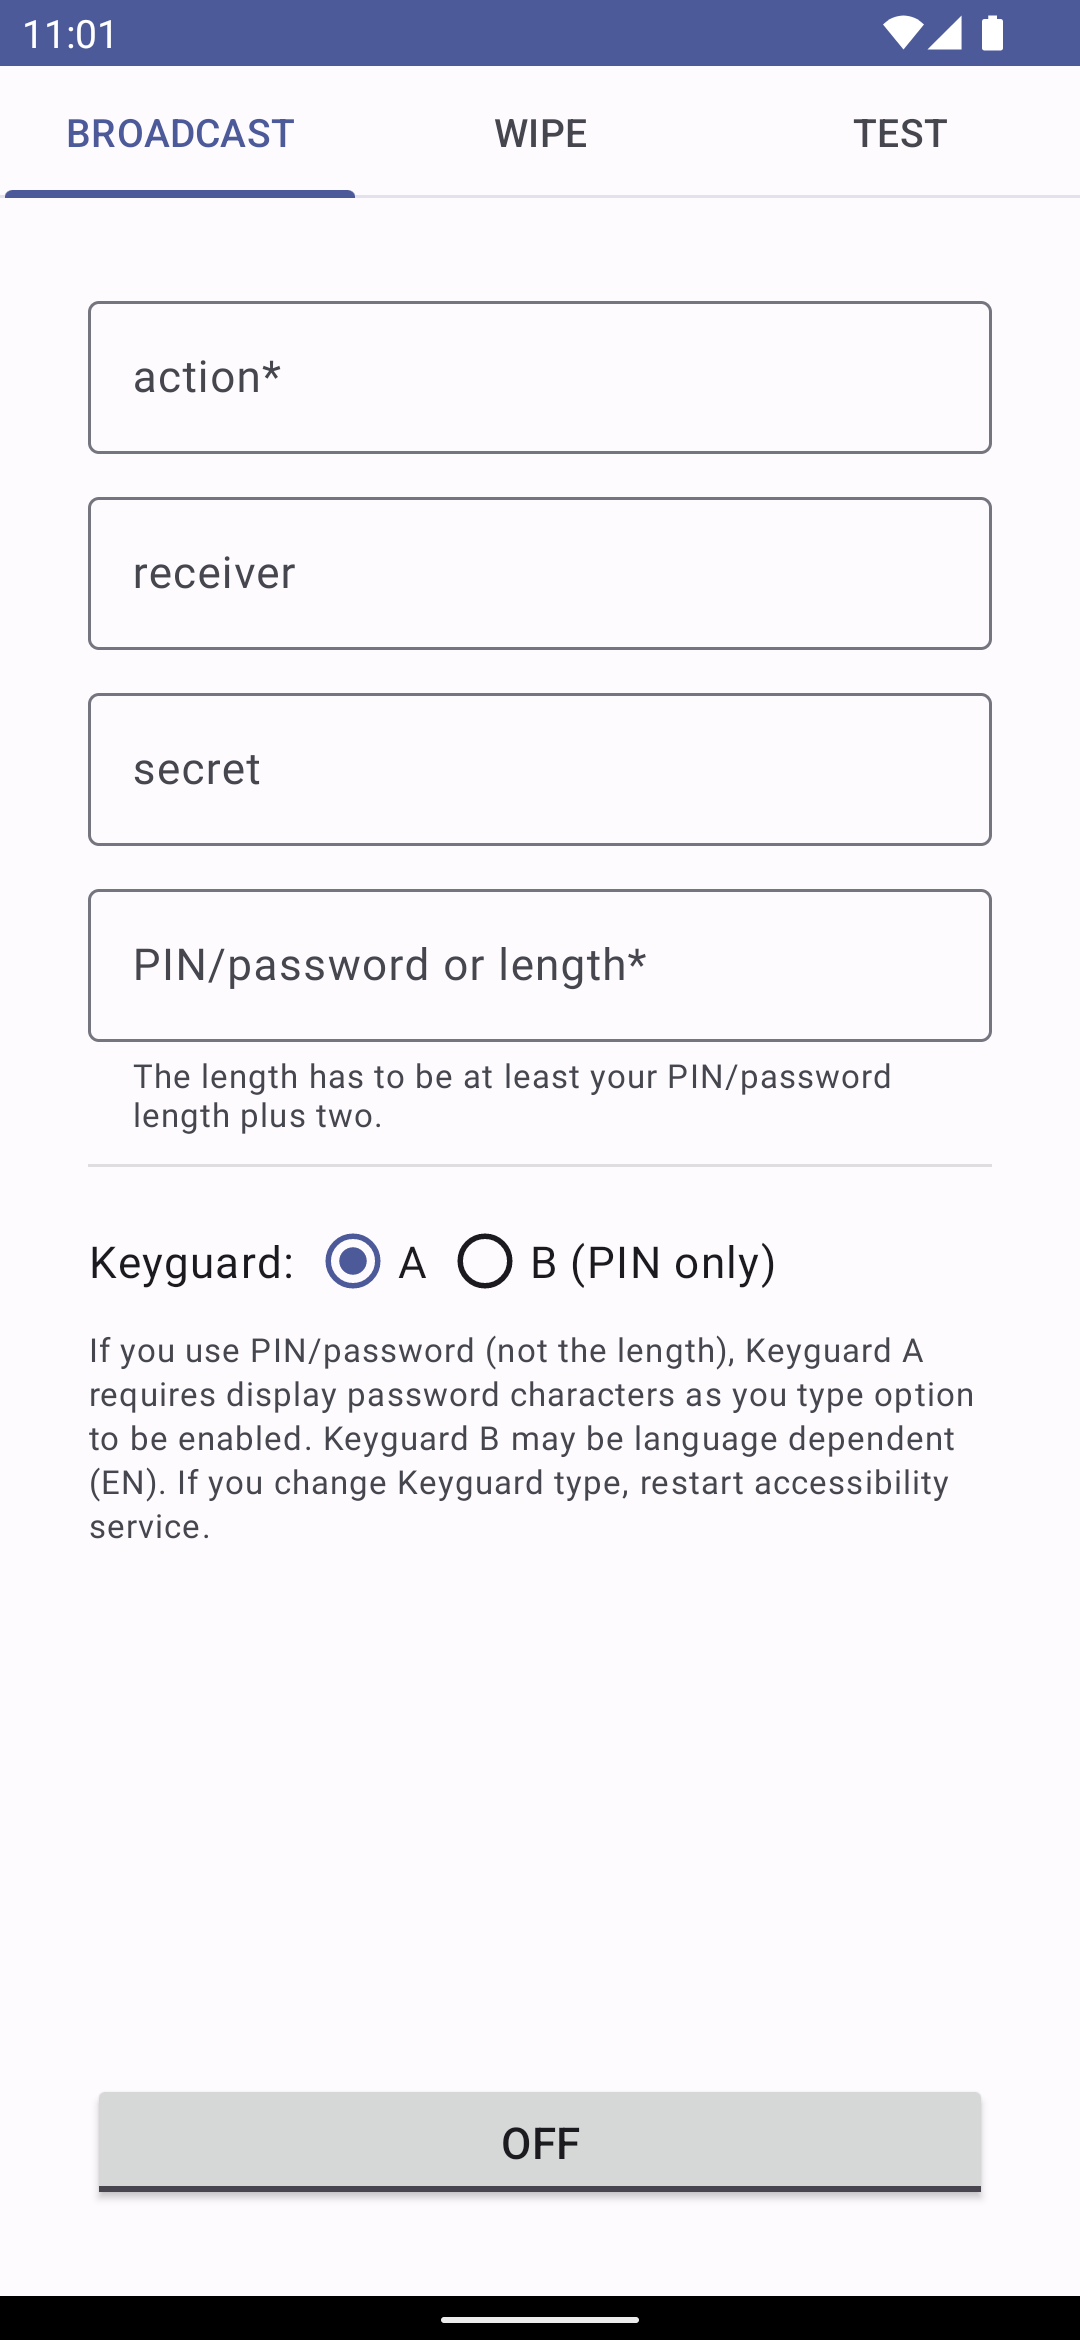
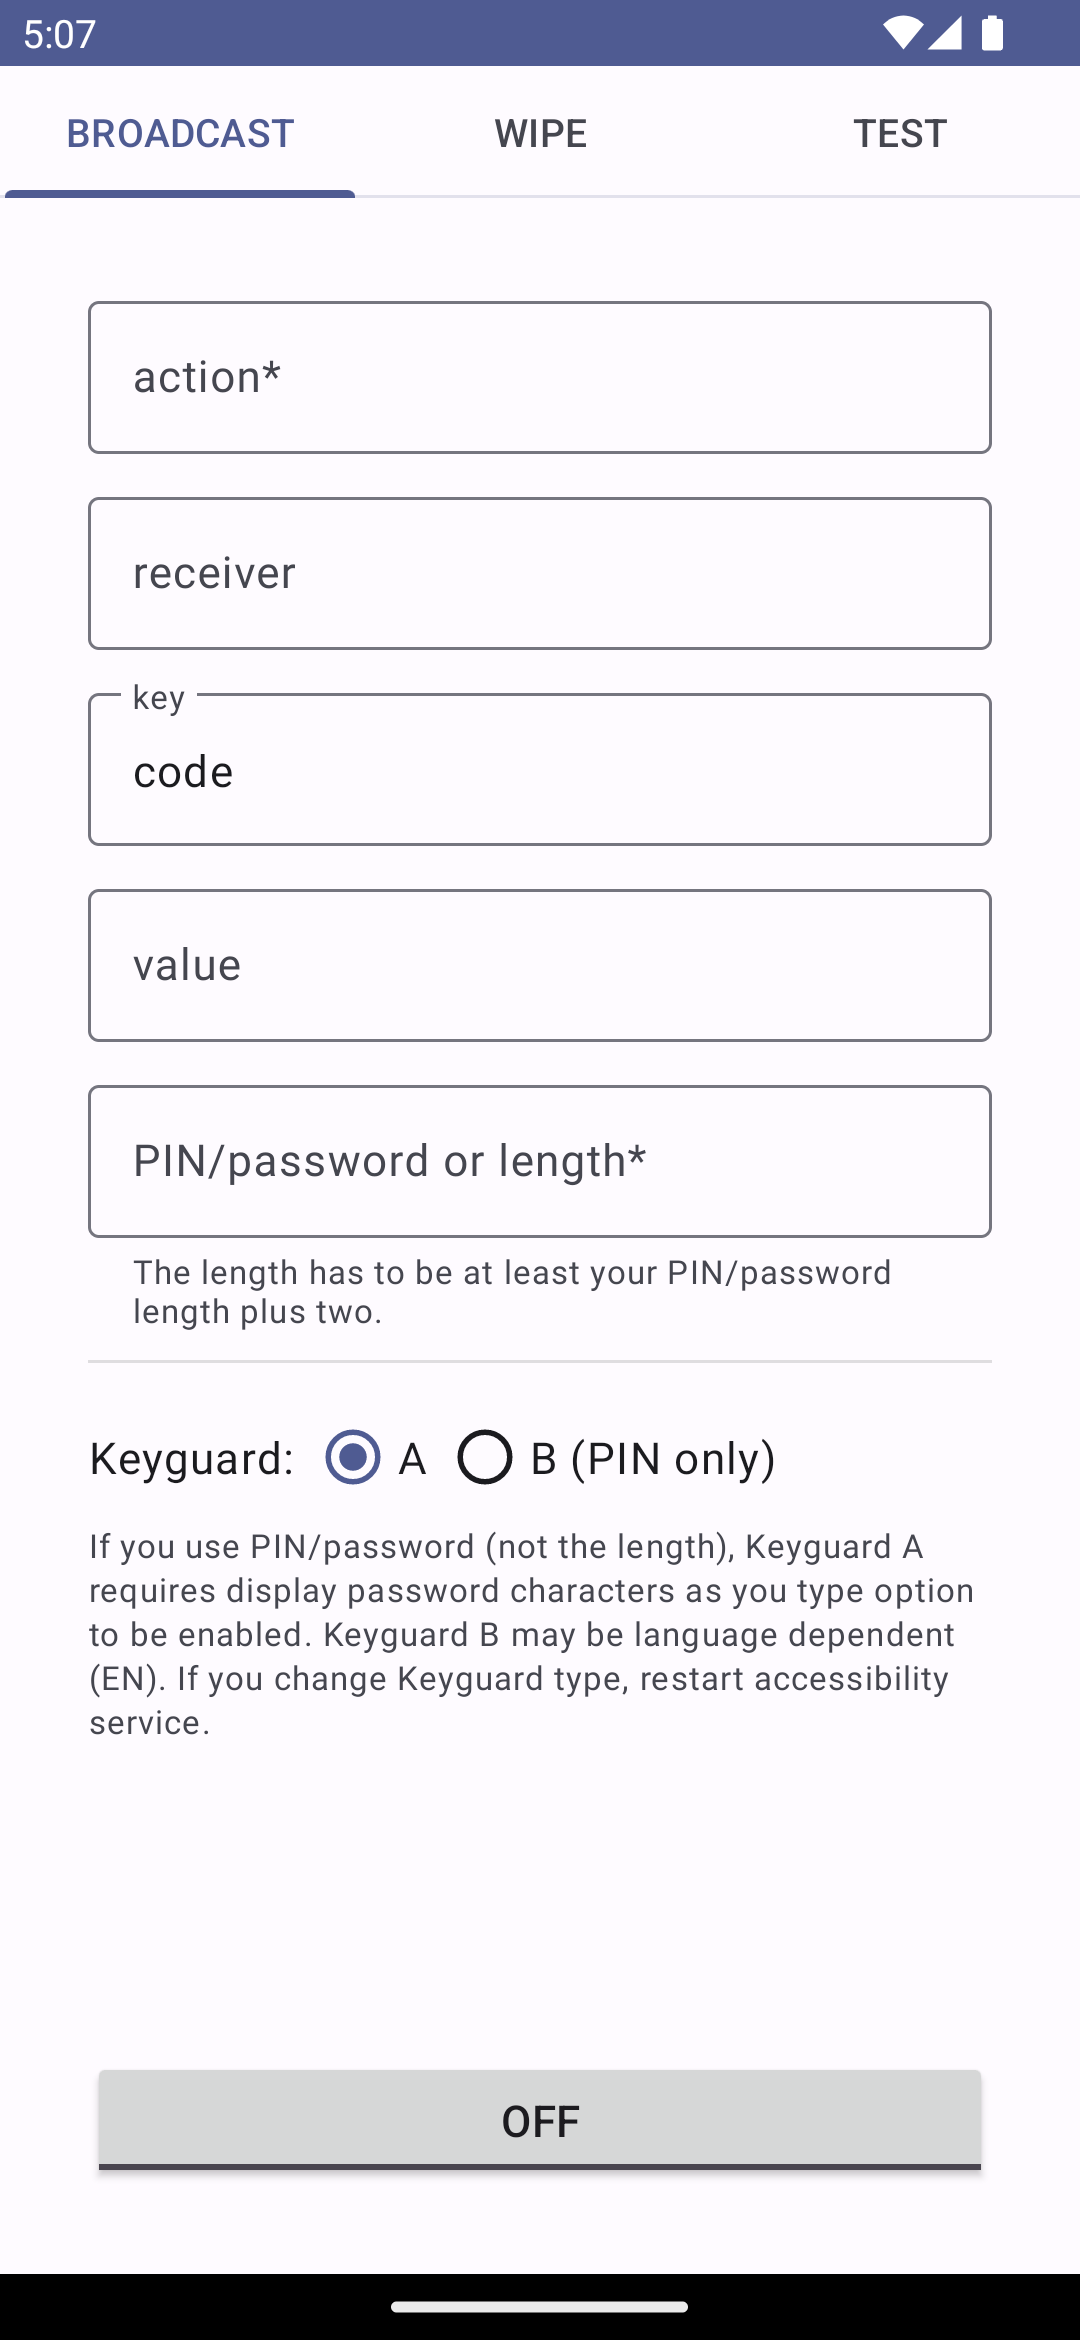
1.0.9

diff --git a/app/src/main/java/me/lucky/duress/MainActivity.kt b/app/src/main/java/me/lucky/duress/MainActivity.kt
@@ -57,7 +57,6 @@ class MainActivity : AppCompatActivity() {
         prefsdb = Preferences(this, encrypted = false)
         prefs.copyTo(prefsdb)
         accessibilityManager = getSystemService(AccessibilityManager::class.java)
-        NotificationManager(this).createNotificationChannels()
     }
 
     private fun init2() {
@@ -66,7 +65,8 @@ class MainActivity : AppCompatActivity() {
             tabs.selectTab(tabs.getTabAt(prefs.mode))
             action.editText?.setText(prefs.action)
             receiver.editText?.setText(prefs.receiver)
-            secret.editText?.setText(prefs.secret)
+            extraKey.editText?.setText(prefs.extraKey)
+            extraValue.editText?.setText(prefs.extraValue)
             passwordOrLen.editText?.setText(prefs.passwordOrLen)
             keyguardType.check(when (prefs.keyguardType) {
                 KeyguardType.A.value -> R.id.keyguardTypeA
@@ -139,8 +139,11 @@ class MainActivity : AppCompatActivity() {
         receiver.editText?.doAfterTextChanged {
             prefs.receiver = it?.toString()?.trim() ?: ""
         }
-        secret.editText?.doAfterTextChanged {
-            prefs.secret = it?.toString()?.trim() ?: ""
+        extraKey.editText?.doAfterTextChanged {
+            prefs.extraKey = it?.toString()?.trim() ?: ""
+        }
+        extraValue.editText?.doAfterTextChanged {
+            prefs.extraValue = it?.toString()?.trim() ?: ""
         }
         passwordOrLen.editText?.doAfterTextChanged {
             prefs.passwordOrLen = it?.toString()?.trim() ?: ""
@@ -166,16 +169,21 @@ class MainActivity : AppCompatActivity() {
         val v = when (prefs.mode) {
             Mode.BROADCAST.value -> View.VISIBLE
             Mode.WIPE.value -> View.GONE
-            Mode.TEST.value -> View.GONE
+            Mode.TEST.value -> {
+                NotificationManager(this).createNotificationChannels()
+                View.GONE
+            }
             else -> View.GONE
         }
         binding.apply {
             action.visibility = v
             receiver.visibility = v
-            secret.visibility = v
+            extraKey.visibility = v
+            extraValue.visibility = v
             space1.visibility = v
             space2.visibility = v
             space3.visibility = v
+            space4.visibility = v
         }
     }
 

diff --git a/app/src/main/java/me/lucky/duress/Preferences.kt b/app/src/main/java/me/lucky/duress/Preferences.kt
@@ -15,7 +15,8 @@ class Preferences(ctx: Context, encrypted: Boolean = true) {
         private const val MODE = "mode"
         private const val ACTION = "action"
         private const val RECEIVER = "receiver"
-        private const val SECRET = "secret"
+        private const val EXTRA_KEY = "extra_key"
+        private const val EXTRA_VALUE = "extra_value"
         private const val PASSWORD_OR_LEN = "password_or_len"
         private const val KEYGUARD_TYPE = "keyguard_type"
         private const val SHOW_PROMINENT_DISCLOSURE = "show_prominent_disclosure"
@@ -25,6 +26,7 @@ class Preferences(ctx: Context, encrypted: Boolean = true) {
         private const val SERVICE_ENABLED = "service_enabled"
         private const val AUTHENTICATION_CODE = "authentication_code"
         private const val PASSWORD_LEN = "password_len"
+        private const val SECRET = "secret"
 
         fun new(ctx: Context) = Preferences(
             ctx,
@@ -64,12 +66,22 @@ class Preferences(ctx: Context, encrypted: Boolean = true) {
         get() = prefs.getString(RECEIVER, "") ?: ""
         set(value) = prefs.edit { putString(RECEIVER, value) }
 
-    var secret: String
-        get() = prefs.getString(SECRET, prefs.getString(AUTHENTICATION_CODE, "")) ?: ""
-        set(value) = prefs.edit { putString(SECRET, value) }
+    var extraKey: String
+        get() = prefs.getString(EXTRA_KEY, "code") ?: ""
+        set(value) = prefs.edit { putString(EXTRA_KEY, value) }
+
+    var extraValue: String
+        get() = prefs.getString(
+            EXTRA_VALUE,
+            prefs.getString(SECRET, prefs.getString(AUTHENTICATION_CODE, "")),
+        ) ?: ""
+        set(value) = prefs.edit { putString(EXTRA_VALUE, value) }
 
     var passwordOrLen: String
-        get() = prefs.getString(PASSWORD_OR_LEN, prefs.getString(PASSWORD_LEN, "")) ?: ""
+        get() = prefs.getString(
+            PASSWORD_OR_LEN,
+            prefs.getInt(PASSWORD_LEN, 0).toString(),
+        ) ?: ""
         set(value) = prefs.edit { putString(PASSWORD_OR_LEN, value) }
 
     var keyguardType: Int

diff --git a/app/src/main/java/me/lucky/duress/AccessibilityService.kt b/app/src/main/java/me/lucky/duress/AccessibilityService.kt
@@ -16,7 +16,6 @@ class AccessibilityService : AccessibilityService() {
     companion object {
         private const val MIN_KEYGUARD_LEN = 4
         private const val MIN_LEN = MIN_KEYGUARD_LEN + 2
-        private const val KEY = "code"
         private const val BUTTON_DELETE_DESC = "delete"
         private const val BUTTON_OK_DESC = "ok"
         private const val BUTTON_ENTER_DESC = "enter"
@@ -226,8 +225,8 @@ class AccessibilityService : AccessibilityService() {
                     )
             }
             addFlags(Intent.FLAG_INCLUDE_STOPPED_PACKAGES)
-            val secret = prefs.secret
-            if (secret.isNotEmpty()) putExtra(KEY, secret)
+            val extraKey = prefs.extraKey
+            if (extraKey.isNotEmpty()) putExtra(extraKey, prefs.extraValue)
         })
     }
 

diff --git a/README.md b/README.md
@@ -12,7 +12,7 @@ Duress password trigger.
       height="80">](https://play.google.com/store/apps/details?id=me.lucky.duress)
 
 <img 
-     src="https://raw.githubusercontent.com/x13a/Duress/main/fastlane/metadata/android/en-US/images/phoneScreenshots/1.png" 
+     src="fastlane/metadata/android/en-US/images/phoneScreenshots/1.png" 
      width="30%" 
      height="30%">
 
@@ -30,8 +30,16 @@ When found, it can send a broadcast message or wipe the device.
 * ACCESSIBILITY - listen for a duress password on the lockscreen
 * DEVICE_ADMIN - wipe the device (optional)
 
+## Localization
+
+[<img 
+     height="51" 
+     src="https://badges.crowdin.net/badge/dark/crowdin-on-light@2x.png" 
+     alt="Crowdin">](https://crwd.in/me-lucky-duress)
+
 ## Related
 
+* [pam_duress](https://github.com/rafket/pam_duress)
 * [pam_panic](https://github.com/pampanic/pam_panic)
 * [pam-party](https://github.com/x13a/pam-party)
 * [lockup](https://github.com/nekohasekai/lockup)
